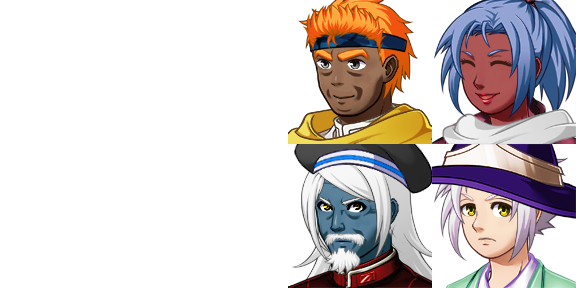
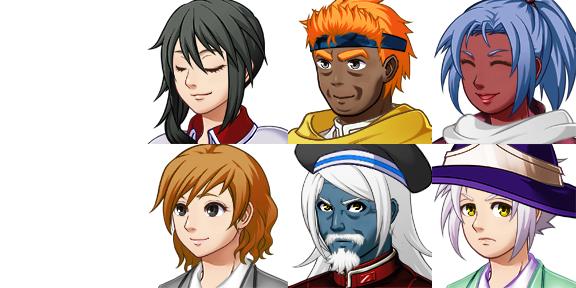
Add characters
added two chaeacters and 2 dialogues

Changed region(s): [[0.25, 0.0, 0.5, 1.0]]

diff --git a/js/plugins.js b/js/plugins.js
@@ -2,6 +2,7 @@
 // Do not edit this file directly.
 var $plugins =
 [
+{"name":"CloudManager","status":false,"description":"Save and load games into/from the cloud","parameters":{"gameName":"龙之传说","gameVersion":"1.0","url":"http://itlsgame.ed.usu.edu","saveOnEnd":"1","preventRestart":"1","sessionManagement":"0","perUserGame":"0","loginActorId":"1","logLevel":"0"}},
 {"name":"Community_Basic","status":true,"description":"Plugin used to set basic parameters.","parameters":{"cacheLimit":"20","screenWidth":"816","screenHeight":"624","changeWindowWidthTo":"","changeWindowHeightTo":"","renderingMode":"auto","alwaysDash":"off"}},
 {"name":"===========","status":false,"description":"=================================","parameters":{}},
 {"name":"YEP_CoreEngine","status":true,"description":"v1.30 Needed for the majority of Yanfly Engine Scripts. Also\r\ncontains bug fixes found inherently in RPG Maker.","parameters":{"---Screen---":"","Screen Width":"816","Screen Height":"624","Scale Battlebacks":"true","Scale Title":"true","Scale Game Over":"true","Open Console":"false","Reposition Battlers":"true","GameFont Load Timer":"0","Update Real Scale":"false","Collection Clear":"true","---Gold---":"","Gold Max":"99999999","Gold Font Size":"20","Gold Icon":"313","Gold Overlap":"A lotta","---Items---":"","Default Max":"99","Quantity Text Size":"20","---Parameters---":"","Max Level":"99","Actor MaxHP":"9999","Actor MaxMP":"9999","Actor Parameter":"999","Enemy MaxHP":"999999","Enemy MaxMP":"9999","Enemy Parameter":"999","---Battle---":"","Animation Rate":"4","Flash Target":"false","Show Events Transition":"true","Show Events Snapshot":"true","---Map Optimization---":"","Refresh Update HP":"true","Refresh Update MP":"true","Refresh Update TP":"false","---Font---":"","Chinese Font":"SimHei, Heiti TC, sans-serif","Korean Font":"Dotum, AppleGothic, sans-serif","Default Font":"GameFont, Verdana, Arial, Courier New","Font Size":"28","Text Align":"left","---Windows---":"","Digit Grouping":"true","Line Height":"36","Icon Width":"32","Icon Height":"32","Face Width":"144","Face Height":"144","Window Padding":"18","Text Padding":"6","Window Opacity":"192","Gauge Outline":"true","Gauge Height":"18","Menu TP Bar":"true","---Window Colors---":"","Color: Normal":"0","Color: System":"16","Color: Crisis":"17","Color: Death":"18","Color: Gauge Back":"19","Color: HP Gauge 1":"20","Color: HP Gauge 2":"21","Color: MP Gauge 1":"22","Color: MP Gauge 2":"23","Color: MP Cost":"23","Color: Power Up":"24","Color: Power Down":"25","Color: TP Gauge 1":"28","Color: TP Gauge 2":"29","Color: TP Cost Color":"29"}},
@@ -40,6 +41,5 @@ var $plugins =
 {"name":"SRD_SummonCore","status":true,"description":"Allows developers to create skills that summon Actors into the player's party using various parameters.","parameters":{"Battlelog Message":"你召唤了 %1 !","Max Summons":"1","Restrict Per Skill":"true","Restrict Per Position":"true","== Defaults ==":"","Default Actor ID":"1","Default Level":"1","Default Animation":"51","Default Exit Ani.":"51","Default Turns":"-1","Default X Pos":"master._homeX + 100","Default Y Pos":"master._homeY + 100"}},
 {"name":"SRD_SummonBattlerImages","status":true,"description":"Allows summoned Actors to use static battler images as opposed to side-view Actor battler images.","parameters":{}},
 {"name":"SRD_NameInputUpgrade","status":true,"description":"Improves upon the \"Name Input\" screen for your RPG Maker MV game.","parameters":{"Keyboard Mode?":"true","Display Message":"Input Your English Name.","Display Message 2":"Press ENTER when ready.","Help Window Width":"400","Help Window Height":"this.fittingHeight(2)","== Display Options ==":"","Show Face":"true","Background Image":"","Scale Background?":"true","Name Opacity":"255","Keyboard Opacity":"255","Help Opacity":"255","Underline Color":"0","Text Color":"0","Name Display X":"0","Name Display Y":"100","Help Window X":"0","Help Window Y":"40","= Custom Characters =":"","LATIN 1 Row 1":"A,B,C,D,E,a,b,c,d,e","LATIN 1 Row 2":"F,G,H,I,J,f,g,h,i,j","LATIN 1 Row 3":"K,L,M,N,O,k,l,m,n,o","LATIN 1 Row 4":"P,Q,R,S,T,p,q,r,s,t","LATIN 1 Row 5":"U,V,W,X,Y,u,v,w,x,y","LATIN 1 Row 6":"Z,[,],^,_,z,{,},|,~","LATIN 1 Row 7":"0,1,2,3,4,!,#,$,%,&","LATIN 1 Row 8":"5,6,7,8,9,(,),*,+,-","LATIN 1 Row 9":"/,=,?,<,>,:,;, ,Page,OK","LATIN 2 Row 1":"Á,É,Í,Ó,Ú,á,é,í,ó,ú","LATIN 2 Row 2":"À,È,Ì,Ò,Ù,à,è,ì,ò,ù","LATIN 2 Row 3":"Â,Ê,Î,Ô,Û,â,ê,î,ô,û","LATIN 2 Row 4":"Ä,Ë,Ï,Ö,Ü,ä,ë,ï,ö,ü","LATIN 2 Row 5":"Ā,Ē,Ī,Ō,Ū,ā,ē,ī,ō,ū","LATIN 2 Row 6":"Ã,Å,Æ,Ç,Ð,ã,å,æ,ç,ð","LATIN 2 Row 7":"Ñ,Õ,Ø,Š,Ŵ,ñ,õ,ø,š,ŵ","LATIN 2 Row 8":"Ý,Ŷ,Ÿ,Ž,Þ,ý,ÿ,ŷ,ž,þ","LATIN 2 Row 9":"Ĳ,Œ,ĳ,œ,ß,«,»,,Page,OK"}},
-{"name":"===========","status":false,"description":"=================================","parameters":{}},
-{"name":"CloudManager","status":false,"description":"Save and load games into/from the cloud","parameters":{"gameName":"My Game","gameVersion":"1.0","url":"http://itlsgame.ed.usu.edu","saveOnEnd":"1","preventRestart":"1","sessionManagement":"0","perUserGame":"0","loginActorId":"1","logLevel":"0"}}
+{"name":"===========","status":false,"description":"=================================","parameters":{}}
 ];
